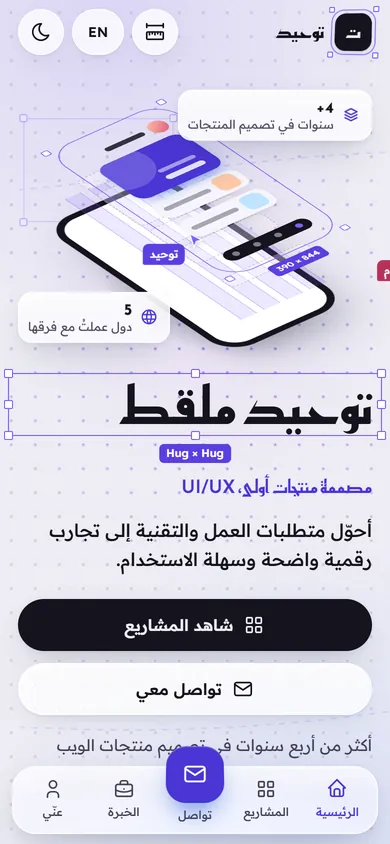
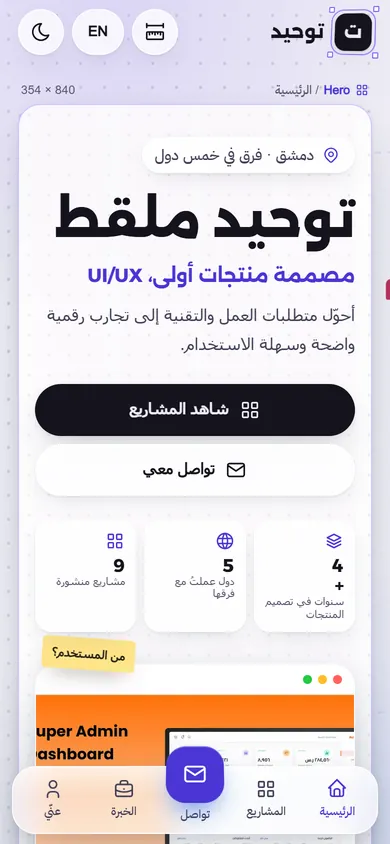
showcase: Tawheed's site with its new self-designing hero

diff --git a/showcase.html b/showcase.html
@@ -654,8 +654,8 @@ else if(L==='ar'&&en){location.replace(p==='/en'?'/':(p.slice(3)||'/'));}}catch(
     <p class="card__meta"><span>أفراد</span><span>2026</span></p>
     <h3 class="card__title">توحيد ملقط</h3>
     <p class="show__role">مصممة منتجات UI/UX</p>
-    <dl class="card__body"><dt>الفكرة</dt><dd>البورتفوليو ملف تصميم مفتوح لا يتوقّف عن العمل: تحديدات تتحرّك، ومؤشّرات تتعاون، وكل مشروع يفرد شاشاته كطبقات.</dd></dl>
-    <ul class="card__list"><li>مجموعة مشاريع تُسحب واحداً تلو الآخر، وكل بطاقة تفرد شاشاتها</li><li>صفحة لكل مشروع، فيها دراسة الحالة كاملة شاشةً شاشة</li><li>لوحة مشاريع تُسحب وتُكبَّر</li></ul>
+    <dl class="card__body"><dt>الفكرة</dt><dd>البورتفوليو ملف تصميم لا يتوقّف عن العمل: عند الدخول تصمّم الواجهة نفسها أمامك، مهارةً تلو الأخرى — البحث، والهيكل، والخط، والألوان، والنموذج التفاعلي.</dd></dl>
+    <ul class="card__list"><li>افتتاحية يعيد فيها شريط أدواتها كل مرحلة من مراحل التصميم</li><li>مجموعة مشاريع تُسحب واحداً تلو الآخر، وكل بطاقة تفرد شاشاتها</li><li>صفحة لكل مشروع، فيها دراسة الحالة كاملة شاشةً شاشة</li></ul>
     <ul class="badges"><li class="badge">Arabic + English</li><li class="badge">3D</li><li class="badge">RTL</li><li class="badge">Dark mode</li></ul>
     <div class="card__foot"><a class="btn btn--ghost" href="https://nouraldeentofi.github.io/tawheed-malkat/" target="_blank" rel="noopener noreferrer">زيارة الموقع<span class="visually-hidden"> (يفتح في تبويب جديد)</span></a></div>
   </div>

diff --git a/en/showcase.html b/en/showcase.html
@@ -653,8 +653,8 @@ else if(L==='ar'&&en){location.replace(p==='/en'?'/':(p.slice(3)||'/'));}}catch(
     <p class="card__meta"><span>People</span><span>2026</span></p>
     <h3 class="card__title">Tawheed Malkat</h3>
     <p class="show__role">Product designer (UI/UX)</p>
-    <dl class="card__body"><dt>The idea</dt><dd>The portfolio as an open design file that never stops working: selections move, cursors collaborate, and every project fans out its screens like layers.</dd></dl>
-    <ul class="card__list"><li>A deck of projects to swipe through, each card fanning its own screens</li><li>A page for every project, with its whole case study screen by screen</li><li>A project board you can drag and zoom</li></ul>
+    <dl class="card__body"><dt>The idea</dt><dd>The portfolio as a design file that never stops working: on arrival the hero designs itself, one of her skills at a time — research, wireframe, type, colour, prototype.</dd></dl>
+    <ul class="card__list"><li>An opening where her own toolbar replays each stage of the design</li><li>A deck of projects to swipe through, each card fanning its own screens</li><li>A page for every project, with its whole case study screen by screen</li></ul>
     <ul class="badges"><li class="badge">Arabic + English</li><li class="badge">3D</li><li class="badge">RTL</li><li class="badge">Dark mode</li></ul>
     <div class="card__foot"><a class="btn btn--ghost" href="https://nouraldeentofi.github.io/tawheed-malkat/" target="_blank" rel="noopener noreferrer">Visit the site<span class="visually-hidden"> (opens in a new tab)</span></a></div>
   </div>
